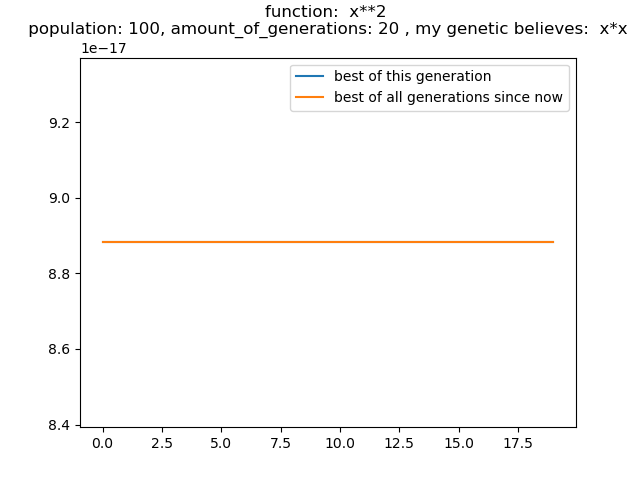
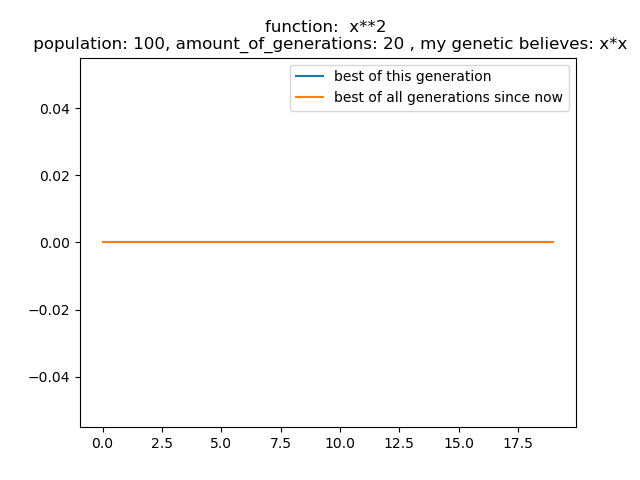
fixing power

diff --git a/tree.py b/tree.py
@@ -1,19 +1,27 @@
 import random
 from sklearn.metrics import mean_squared_error
 import math
-
+import numpy as np
 
 # choosing the operator
 def my_operator():
     op = ['+', '-', '*', '**']
     return(random.choice(op))
 
-# choosing the leaf
-def my_leaf():
-    leaf = [random.randint(1, 9), 'x']
-    return(random.choice(leaf))
+def power_list():
+    power_domain = (0.25, 4)
+    power_rate = 0.25
+    
+    p = np.arange(power_domain[0], power_domain[1], power_rate)
+    return p
 
+def coefficient_list():
+    coefficient_domain = (0.1, 50.4)
+    coefficient_rate = 0.1
 
+    c = np.arange(coefficient_domain[0], coefficient_domain[1], coefficient_rate)
+    return c
+    
 class Node:
     # my node class 
     
@@ -30,12 +38,14 @@ class Tree:
         self.max_depth = _max_depth
         self.root = None
         self.in_order = None
-        self.mae = None        
+        self.mae = None
+        self.power_l = power_list()
+        self.coefficient_l = coefficient_list()
         
     def _fit(self):
         self.root = self._grow_tree(self.max_depth)
         
-    def _grow_tree(self, max_depth, CS = 2):
+    def _grow_tree(self, max_depth, CS=2):
         
         # choosing a random depth each time (between 0 to max given depth)
         depth = random.randint(0, max_depth)
@@ -47,19 +57,30 @@ class Tree:
         
         # building the tree base on current depth and children needed
         if(depth==0):
-            x = my_leaf()
+            x = random.choice(self.coefficient_l)
         else:
-            for i in range(CS):
-                children.append(self._grow_tree(depth-1))
+            if(x=='**'):
+                n1 = Node(0, 'x', [])
+                n1.is_leaf = True
+                n2 = Node(0, random.choice(self.power_l), [])
+                n2.is_leaf = True
+                
+                children.append(n1)
+                children.append(n2)
+                
+                depth = 1
+            else:
+                for i in range(CS):
+                    children.append(self._grow_tree(depth-1))
 
         # making the node 
         n = Node(depth, x, children)
-        if(depth==0): n.is_leaf = True
+        if(depth==0):
+            n.is_leaf = True
         return n          
 
-    def print_tree (self):
+    def print_tree(self):
         # making the inorder show of our tree
-        
         self.in_order = self.to_math_string(self.root)
    
     def to_math_string(self, node):
@@ -67,9 +88,9 @@ class Tree:
             return f"{node.operator}"
         else:
             if(len(node.children)) == 1:
-                return f"{node.operator}{self.to_math_string(node.children[0])} "
+                return f"{node.operator}{self.to_math_string(node.children[0])}"
             else:
-                return f"{self.to_math_string(node.children[0])}{node.operator}{self.to_math_string(node.children[1])} "
+                return f"{self.to_math_string(node.children[0])}{node.operator}{self.to_math_string(node.children[1])}"
 
 def tree_making(max_depth):  
     # making each of our trees
@@ -77,7 +98,6 @@ def tree_making(max_depth):
     t = Tree(max_depth)
     t._fit()
     t.print_tree()
-    # print()
     return t     
         
 def all_trees(amount, max_depth):
@@ -116,25 +136,28 @@ def calculator(root, x, flag):
             if(left_val==0 and right_val<0):
                 flag = True
                 return 1
-            else: 
-                # return left_val ** right_val
-                if(right_val==0):
-                    return 1
-                x = 1
-                i = 0
-                while(not flag and i<right_val):
-                    x = x*left_val
-                    i+=1
-                    if(x>100000 or x<-100000):
-                        flag = True
-                        return 1
-                return x
+            else:
+                return left_val**right_val
+                # if(right_val==0):
+                #     return 1
+                # x = 1
+                # i = 0
+                # while(not flag and i<right_val):
+                #     x = x*left_val
+                #     i+=1
+                #     if(x>100000 or x<-100000):
+                #         flag = True
+                #         return 1
+                # return x
         
-def mean_abs_error(true_y, my_y):
-    amount = len(my_y)
+def mean_abs_error(actual_y, predicted_y):
+    amount = len(predicted_y)
     sum = 0
     for i in range(amount):
-        sum += abs(my_y[i]-true_y[i])
+        sum += abs(predicted_y[i]-actual_y[i])
+        # sum+=a
+        # print("actual y =", format(actual_y[i], ".2f"), "predicted y =", format(predicted_y[i], ".2f"), "mae is =", format(a, ".2f"))
+
     return sum/amount
         
 def _mae(tree, list_x, list_y):
@@ -148,7 +171,12 @@ def _mae(tree, list_x, list_y):
             t_y = 100000
 
         trees_y.append(t_y)
+
+    # print(tree.in_order)
     mae = mean_abs_error(list_y, trees_y)
+    # print()
+    # if(mae<0.00001):
+    #     mae = 0
     return mae
 
 def calculating_mae(tree_list, X, Y):

diff --git a/program.py b/program.py
@@ -21,7 +21,9 @@ if __name__ == "__main__":
     pm = 0.5 # the probblity of mutation
 
     amount_of_generations = 20
-
+    
+    # power_domain = (0.25, 4)
+    # power_rate = 0.25
     
     # using domain
     f = open('in_out1.txt', 'r')
@@ -73,7 +75,7 @@ if __name__ == "__main__":
 
     ax.set_title(f"function: {given_function} population: {amount_of_trees}, amount_of_generations: {amount_of_generations} , my genetic believes: {final_best_tree.in_order}")
     ax.legend(handles=[best_of_each, best_of_all])
-    name = "result_1_" + str(amount_of_trees) + '.png'
+    name = "result_3_" + str(amount_of_trees) + '.png'
 
     print("the function that my genetic believes: ", final_best_tree.in_order)
 
@@ -86,7 +88,7 @@ if __name__ == "__main__":
     average_of_each, = plt.plot(x_generation_number, y_average_of_each, label='average of each generation')
     ax.set_title(f"function = {given_function}, population = {amount_of_trees}")
     ax.legend(handles=[average_of_each])
-    name = "average_1_" + str(amount_of_trees) + '.png'
+    name = "average_2_" + str(amount_of_trees) + '.png'
 
     plt.savefig(name)
     plt.show()

diff --git a/children.py b/children.py
@@ -150,6 +150,6 @@ def making_children(parent_trees, k, pc, pm):
         children.append(child1)
         children.append(child2)
     
-    mutation(children, pm)
+    # mutation(children, pm)
     
     return children
